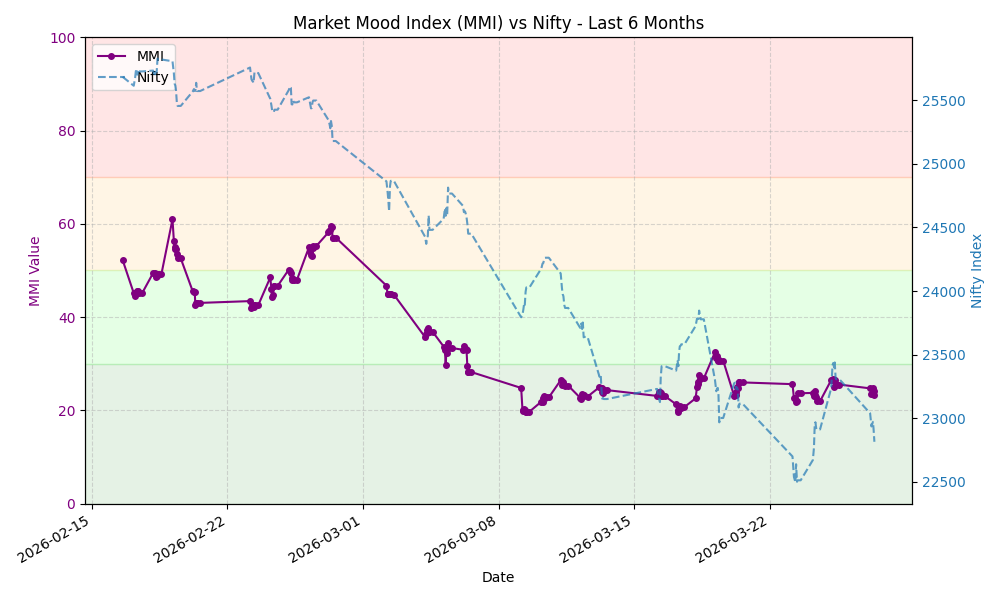
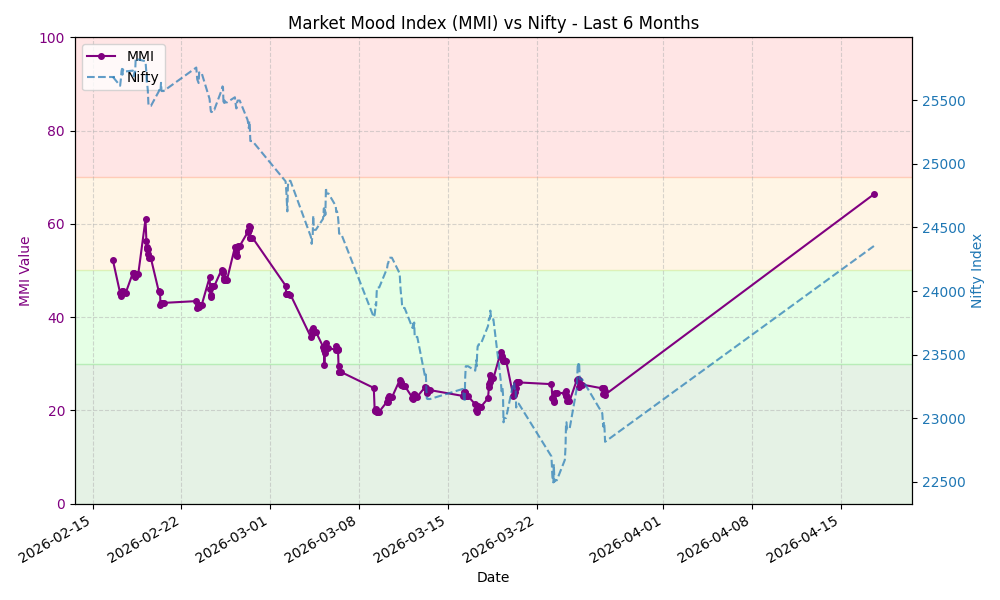
Update MMI data and chart

diff --git a/README.md b/README.md
@@ -7,8 +7,8 @@ This repository automatically fetches the MMI value, stores the history, and gen
 
 ## Latest MMI Value
 
-**23.36** - **Extreme Fear**
-<small>Last Updated: 2026-03-27 09:39 UTC</small>
+**66.35** - **Greed**
+<small>Last Updated: 2026-04-17 14:20 UTC</small>
 
 ## MMI Trend (Last 30 Days)
 
